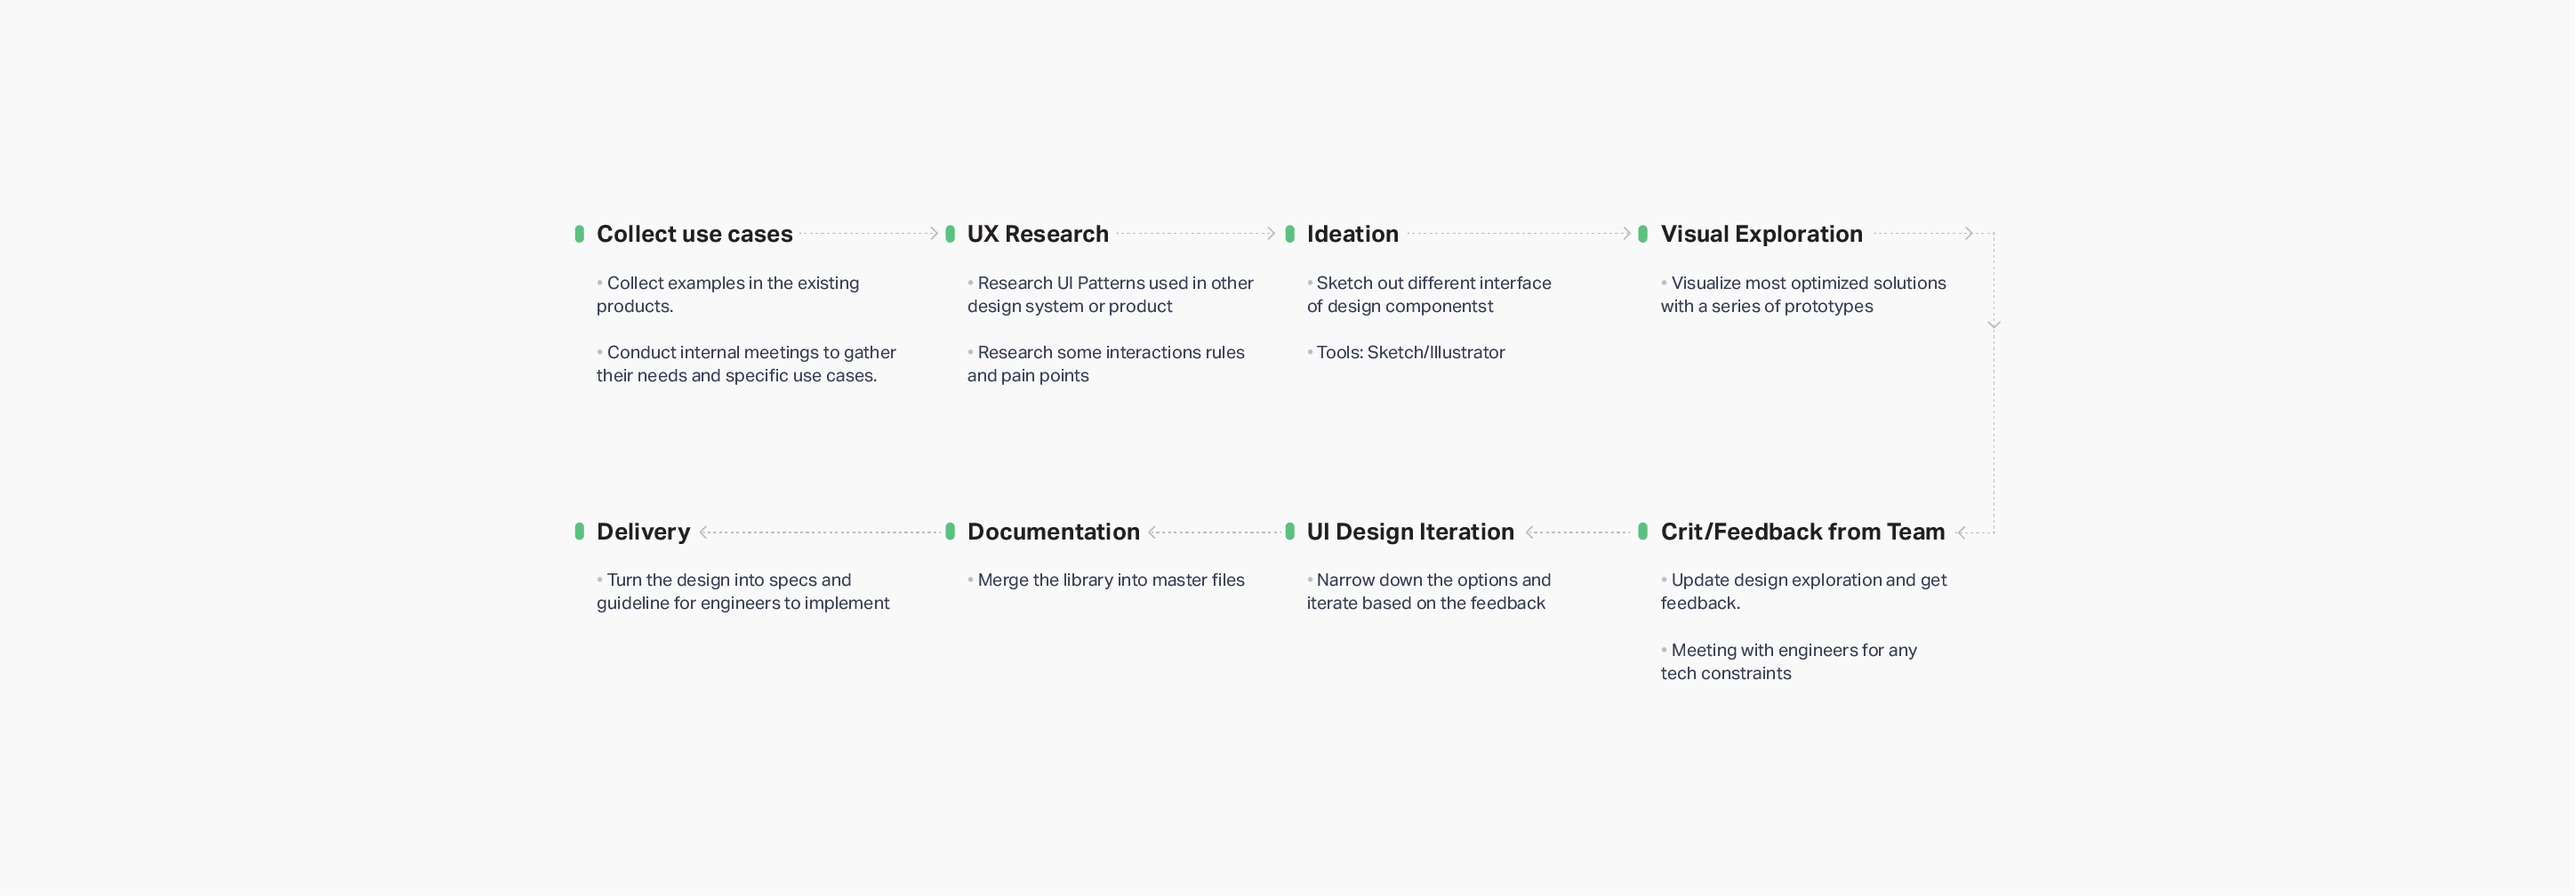
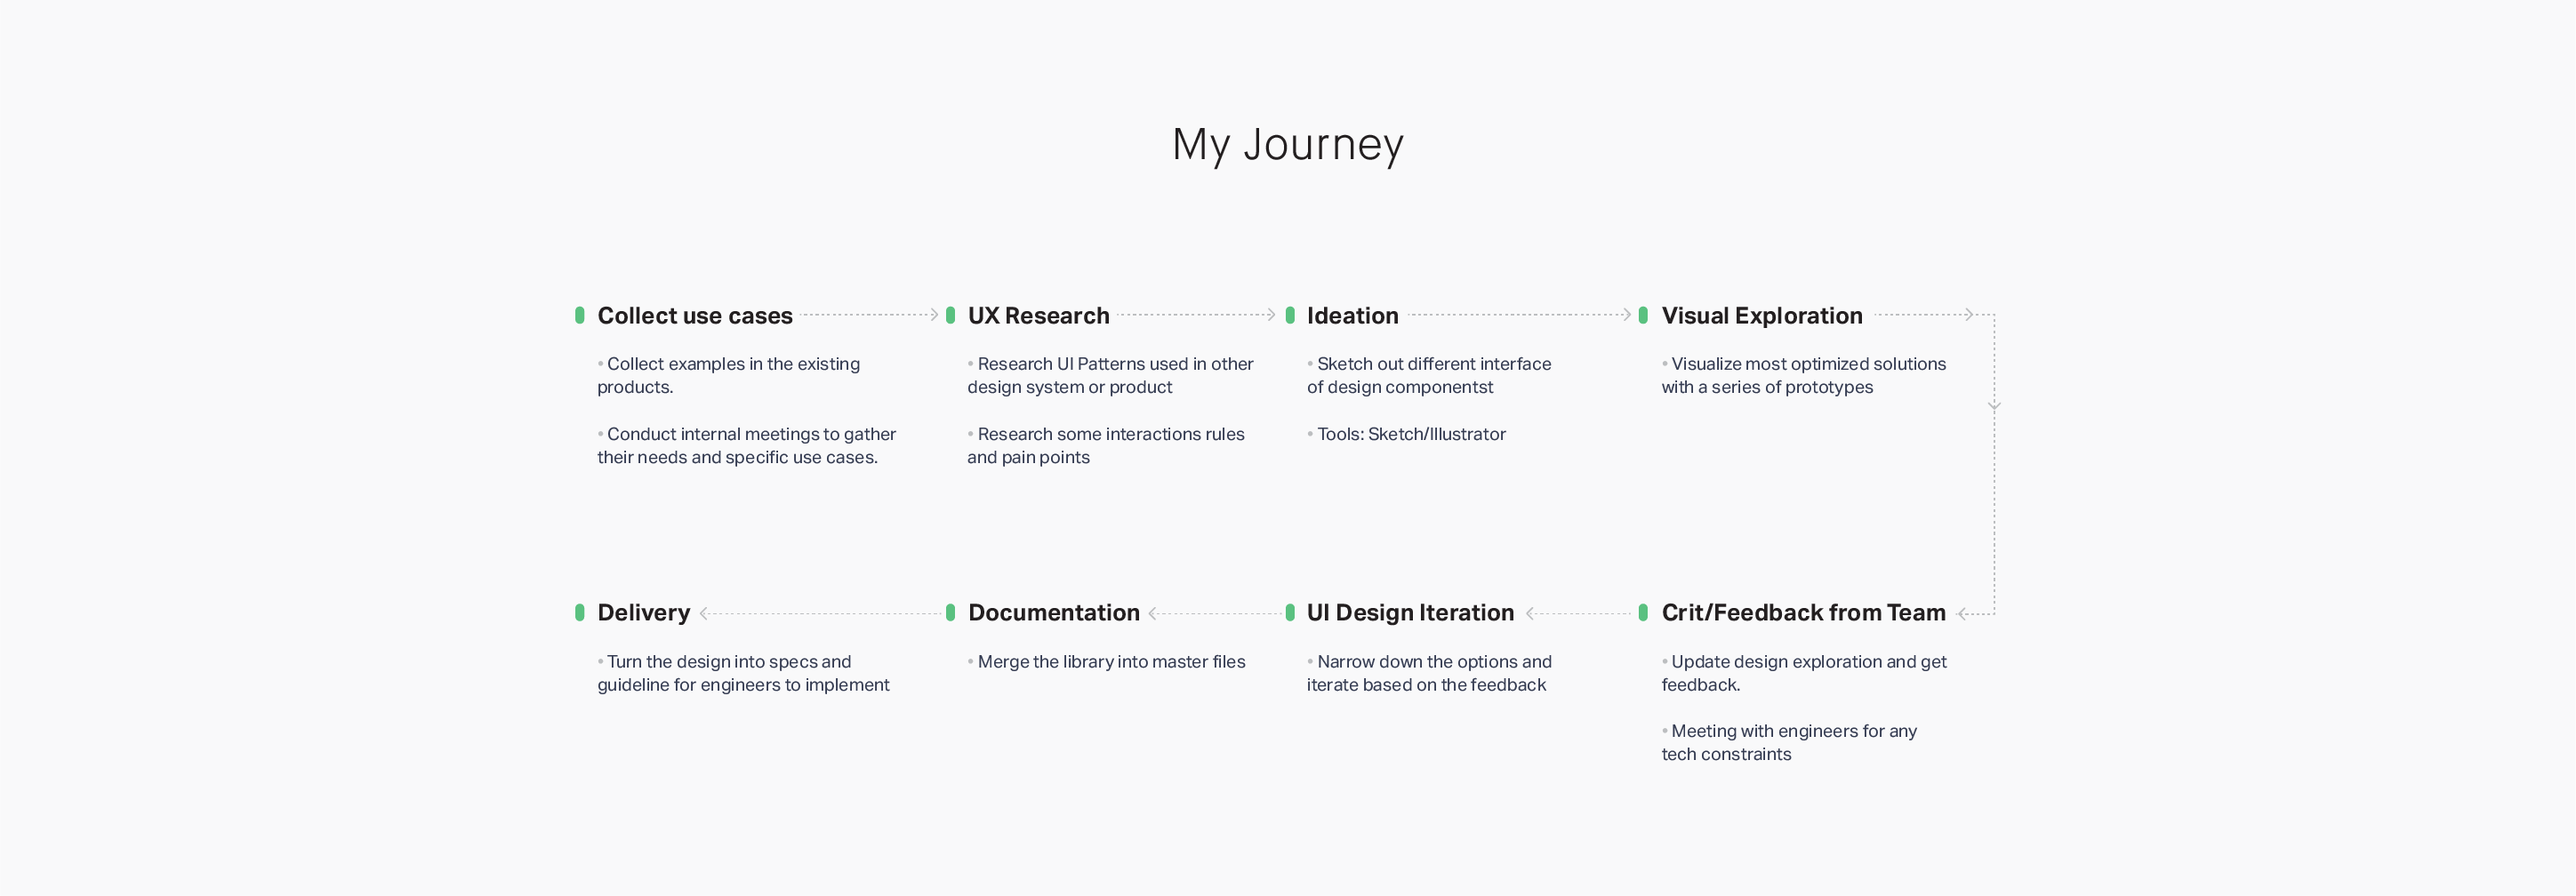
Edited Treatspace contents and added some images
Edited Treatspace contents and added some images

diff --git a/treatspace.html b/treatspace.html
@@ -61,6 +61,8 @@
                         <li><strong>Timeline:</strong> 11 weeks, Summer 2019</li>
                     </ul>
                     <p class="pb05">In Summer 2019, I worked as a UX/UI intern at Treatspace. Treatspace is an award-winning, multi-faceted healthcare platform that enables high-performance referral management, powers online patient engagement, and facilitates clinical collaboration.</p>
+                    
+                    <p class="pb05">The core goal of the Treatspace platform, which is specifically designed for healthcare providers, has always has been to its customers (practices) succeed with a tailored specific experience.</p>
 
                     <p class="pb05">I worked closely with engineers, other team members, but mostly my mentor Naveen Kumar, who guides me to finish design projects well and learn more about how to tackle design challenges, and how to design a complete end-to-end flow.
                     </p>
@@ -77,7 +79,6 @@
                     <p>Project 4: Illustrations on icons and presentation mockups</p>
                     <p>And, exported all designs into specs and guidelines for the engineering team.</p>
                     <h4 class="pb03"></h4>
-                    <h3 class="mt10">My Journey</h3>
                 </div>
             </div>
         </div>
@@ -88,16 +89,24 @@
             <div class="row">
                 <div class="textarea">
                     <h4 class="pb03"></h4>
-                    <h3 class="mt10">Project 1: A front-facing website editing (Responsive)</h3>
+                    <h3 class="mt05">Project 1: A front-facing website editing (Responsive)</h3>
                     <h4 class="pb02">OVERVIEW:</h4>
-                    <p>It is a system enable users to customize or make changes to the experience to meet their specific needs by configuring layout, content, or system functionality.
+                    <p>My first task was redesigning interface for Treatspace’s front-facing website editing feature using design thinking principles. It is a system enable users to customize or make changes to the experience to meet their specific needs by configuring layout, content, or system functionality.
                     <h3 class="pb02"></h3>
                     <h4 class="pb02">COLLECT USE CASES:</h4>
-                    <p>Get design critique and feedback from the team to move forward. Be humble and open-minded. It is a powerful way of getting the feedback and opportunity to unveil a few points that I have never thought of them.
+                    <p> After gathering the needs/requests from team, I was able to gather current use cases  and existing data. After that, I started to find some inspiration from modern visual layouts. These layouts most likely aim for making layouts more accessible for users through a clearer UI, reducing clutter and improving user flow.
                     <h3 class="pb02"></h3>
-                    <h4 class="pb02">UX RESEARCH:</h4>
+                    <h4 class="pb02">SKETCHING INITIAL IDEA:</h4>
                     <p>Get design critique and feedback from the team to move forward. Be humble and open-minded. It is a powerful way of getting the feedback and opportunity to unveil a few points that I have never thought of them.
-                    <h3 class="pb02"></h3>
+                </div>
+            </div>
+        </div>
+                     
+        <img style="width: 100%" src="img/treatspace_brainstorm.png" srcset="img/treatspace_brainstorm1.png 2x, img/treatspace_brainstorm2.png 3x" alt="AxleHire Userflow">
+                    
+        <div class="container2">
+            <div class="row">
+                <div class="textarea">
                     <h4 class="pb02">IDEATION:</h4>
                     <p>Get design critique and feedback from the team to move forward. Be humble and open-minded. It is a powerful way of getting the feedback and opportunity to unveil a few points that I have never thought of them.
                     <h3 class="pb02"></h3>
@@ -110,8 +119,20 @@
                     <h4 class="pb02">DOCUMENTATION:</h4>
                     <p>Get design critique and feedback from the team to move forward. Be humble and open-minded. It is a powerful way of getting the feedback and opportunity to unveil a few points that I have never thought of them.
                     <h3 class="pb02"></h3>
-                    <h4 class="pb02">UI ITERATION:</h4>
+                    <h4 class="pb02">FINAL VISUAL:</h4>
                     <p>Get design critique and feedback from the team to move forward. Be humble and open-minded. It is a powerful way of getting the feedback and opportunity to unveil a few points that I have never thought of them.
+                </div>
+            </div>
+        </div>
+                     
+        <img style="width: 100%" src="img/Treatspace_project1_visual.png" srcset="img/Treatspace_project1_visual1.png 2x, img/Treatspace_project1_visual2.png 3x" alt="AxleHire Userflow">
+
+        <img style="width: 100%" src="img/Treatspace_project1_Final_Mobile.png" srcset="img/Treatspace_project1_Final_Mobile1.png 2x, img/Treatspace_project1_Final_Mobile2.png 3x" alt="AxleHire Userflow">
+                   
+                    
+        <div class="container2">
+            <div class="row">
+                <div class="textarea">
                     <h3 class="pb02"></h3>
                     <h4 class="pb02">CRIT/FEEDBACK FROM TEAM:</h4>
                     <p>Get design critique and feedback from the team to move forward. Be humble and open-minded. It is a powerful way of getting the feedback and opportunity to unveil a few points that I have never thought of them.
@@ -119,7 +140,7 @@
                     <p>
                     </p>
                     <h4 class="pb03"></h4>
-                    <h3 class="mt10">Project 2: New Internal Dashboard</h3>
+                    <h3 class="mt05">Project 2: New Internal Dashboard</h3>
                     <h4 class="pb02">OVERVIEW:</h4>
                     <p>How might we make the interface more simple and easy to read? Was the main goal of this project. I was able to redesigned interface of new internal dashboard for the Treatspace platform. This new internal dashboard is the index page of the control panel for a website’s content management system.
                 </div>
@@ -131,7 +152,7 @@
         <div class="container2">
             <div class="row">
                 <div class="textarea">  
-                    <h3 class="mt10">Project 3: The PracticeBeat Online V2 Testing Tool</h3>
+                    <h3 class="mt05">Project 3: The PracticeBeat Online V2 Testing Tool</h3>
                     <h4 class="pb02">OVERVIEW:</h4>
                     <p>I created prototype of PracticeBeat self-service online v2 testing tool. It is a tool that analyzes the site’s front-end performance and offers optimization recommendations for the individual practice website. The existing online testing tool is robust and well-functional. However, the goal of redesigning this project was to improve user engagement and increase the user presences with highly visualized UI.
                 </div>
@@ -143,9 +164,9 @@
         <div class="container2">
             <div class="row">
                 <div class="textarea"> 
-                    <h3 class="mt10">Project 4: Illustrations on icons and presentation mockups</h3>
+                    <h3 class="mt05">Project 4: Illustrations on icons and presentation mockups</h3>
                     <h4 class="pb02">OVERVIEW:</h4>
-                    <p>Get design critique and feedback from the team to move forward. Be humble and open-minded. It is a powerful way of getting the feedback and opportunity to unveil a few points that I have never thought of them.
+                    <p>Created illustration of icon and mockups that goes into PracticeBeat Website. <li><a href="https://https://www.practicebeat.com/attract-patients-and-grow-your-practice-through-effective-healthcare-marketing" target="_blank">Click Here to See!</a></li>
                     <p></p>
                 </div>
             </div>
@@ -156,8 +177,7 @@
         <div class="container2">
             <div class="row">
                 <div class="textarea">
-                    <h4 class="pb03"></h4>
-                    <h3 class="mt10">Few Take-aways</h3>
+                    <h3 class="mt05">Few Take-aways</h3>
                     <h4 class="pb02">Expose your idea and designs:</h4>
                     <p>Get design critique and feedback from the team to move forward. Be humble and open-minded. It is a powerful way of getting the feedback and opportunity to unveil a few points that I have never thought of them.
                     <h3 class="pb02"></h3>
@@ -171,7 +191,8 @@
                     <p>Design is all about communication. Participating in the daily/weekly meetings and feedback sessions are the key for better team collaboration and design iteration.
                     </p>
                     <h3 class="pb02"></h3>
-                    <p>Special thanks to my mentor Naveen Kumar, Product manger, for guiding me through the design thinking process. I would also like to thank engineers, Chad Mayer, and Sean Fox, for implementing my design specs and guidelines. Also, other</p>
+                    <p>Special thanks to my mentor Naveen Kumar, Product manger, for guiding me through the design thinking process. I would also like to thank engineers, Chad Mayer, and Sean Fox, for implementing my design specs and guidelines. Also, other team members.</p>
+                    <h3 class="mt06"></h3>
                 </div>
             </div>
         </div>
